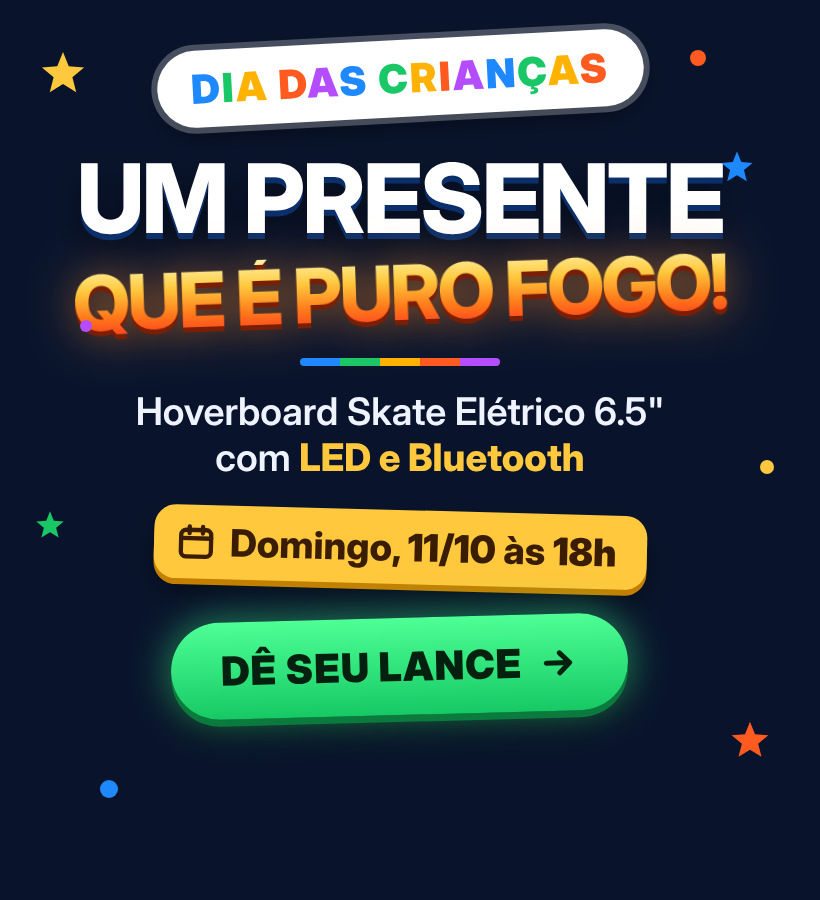
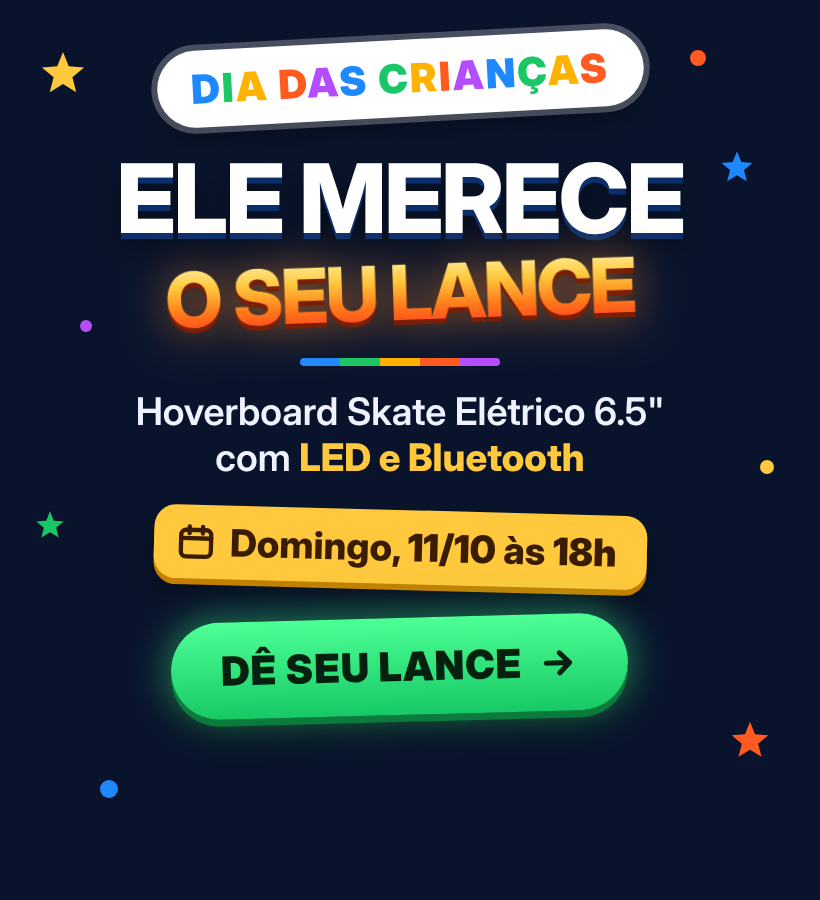
Dia das Crianças (menino): título 'Ele merece o seu lance'
Claude-Session: https://claude.ai/code/session_01JihU9VfVTYTrMqQpApFEjH

Changed region(s): [[0.061, 0.1556, 0.9146, 0.4044]]

diff --git a/marketing/banners/dia-das-criancas/texto.html b/marketing/banners/dia-das-criancas/texto.html
@@ -38,7 +38,7 @@
   <img class="logo" src="logo.png">
   <div class="txt">
     <div class="selo"><span>D</span><span>I</span><span>A</span>&nbsp;<span>D</span><span>A</span><span>S</span>&nbsp;<span>C</span><span>R</span><span>I</span><span>A</span><span>N</span><span>Ç</span><span>A</span><span>S</span></div>
-    <div class="h1">UM PRESENTE<span class="fogo">QUE É PURO FOGO!</span></div>
+    <div class="h1">ELE MERECE<span class="fogo">O SEU LANCE</span></div>
     <div class="rule"></div>
     <div class="sub">Hoverboard Skate Elétrico 6.5"<br>com <b>LED e Bluetooth</b></div>
     <div><div class="data"><svg viewBox="0 0 24 24" fill="none" stroke="#3a1d00" stroke-width="2.6" stroke-linecap="round" stroke-linejoin="round"><rect x="3" y="5" width="18" height="16" rx="3"/><path d="M3 10h18M8 3v4M16 3v4"/></svg><span>Domingo, <b>11/10</b> às <b>18h</b></span></div></div>
